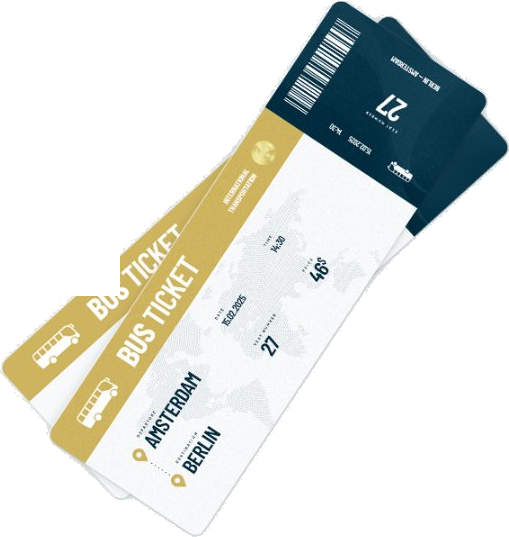
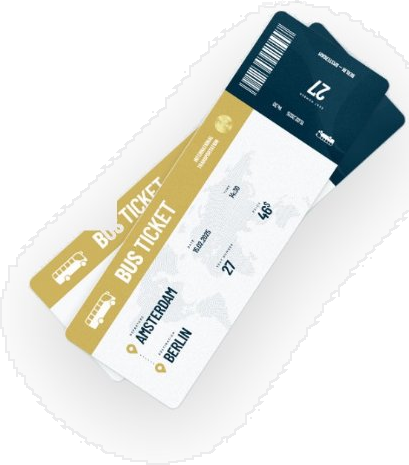
feat: replace with full uncut ticket image and enrich travel section

diff --git a/src/app/page.tsx b/src/app/page.tsx
@@ -357,15 +357,19 @@ export default function HomePage() {
       </section>
 
       {/* ============================================================== */}
-      {/* 2. BUS TRAVEL WITH EASY SECTION (Faithful Reference Match UI)  */}
+      {/* 2. BUS TRAVEL WITH EASY SECTION (Full Uncut Ticket + Details)  */}
       {/* ============================================================== */}
       <section className="py-16 md:py-24 bg-white border-b border-slate-100 overflow-hidden">
         <div className="max-w-7xl mx-auto px-4 sm:px-6 lg:px-8">
-          <div className="grid grid-cols-1 lg:grid-cols-12 gap-10 items-center">
+          <div className="grid grid-cols-1 lg:grid-cols-12 gap-10 lg:gap-8 items-center">
             
-            {/* Left Column: Big Statement Headline & Read More */}
+            {/* Left Column: Big Statement Headline, Highlights & Read More */}
             <div className="lg:col-span-4 space-y-5 text-left">
               <div>
+                <span className="inline-flex items-center gap-1.5 px-3 py-1 rounded-full bg-[#B48C56]/15 border border-[#B48C56]/30 text-[#8C6B3D] text-[10px] font-black uppercase tracking-widest mb-3">
+                  <Sparkles className="w-3 h-3 text-[#B48C56]" />
+                  <span>DIGITAL PASS CONCIERGE</span>
+                </span>
                 <h2 className="tracking-tight leading-[0.95]">
                   <span className="font-extrabold text-4xl sm:text-5xl lg:text-6xl text-[#B48C56] block tracking-tight uppercase">
                     BUS TRAVEL
@@ -375,57 +379,82 @@ export default function HomePage() {
                   </span>
                 </h2>
               </div>
+
               <p className="text-xs sm:text-sm font-extrabold uppercase tracking-widest text-slate-800 leading-relaxed max-w-sm">
                 AFFORDABLE TICKETS FOR FAST AND COMFORTABLE BUS TRIPS ACROSS CITIES
               </p>
+
+              {/* Detailed Value Checkmarks */}
+              <div className="space-y-2 pt-1 border-t border-slate-100">
+                <div className="flex items-center gap-2 text-xs font-semibold text-slate-700">
+                  <CheckCircle2 className="w-4 h-4 text-[#B48C56] shrink-0" />
+                  <span>Instant Scannable Barcode & Wallet Pass</span>
+                </div>
+                <div className="flex items-center gap-2 text-xs font-semibold text-slate-700">
+                  <CheckCircle2 className="w-4 h-4 text-[#B48C56] shrink-0" />
+                  <span>Flexible Date Rescheduling Up to 2h Prior</span>
+                </div>
+                <div className="flex items-center gap-2 text-xs font-semibold text-slate-700">
+                  <CheckCircle2 className="w-4 h-4 text-[#B48C56] shrink-0" />
+                  <span>Guaranteed 3D Seat Allocation (Zero Overbooking)</span>
+                </div>
+              </div>
+
               <div className="pt-2">
                 <Link
                   href="/routes"
-                  className="inline-flex items-center gap-2 text-xs font-bold uppercase tracking-widest text-[#B48C56] hover:text-[#946F38] transition-all group"
+                  className="inline-flex items-center gap-2 text-xs font-bold uppercase tracking-widest text-[#B48C56] hover:text-[#8C6B3D] transition-all group"
                 >
-                  <span className="border-b border-[#B48C56] pb-0.5">READ MORE</span>
+                  <span className="border-b-2 border-[#B48C56] pb-0.5">EXPLORE TICKETS</span>
                   <ArrowRight className="w-3.5 h-3.5 group-hover:translate-x-1 transition-transform" />
                 </Link>
               </div>
             </div>
 
-            {/* Center Column: Authentic Diagonal Overlapping Luxury Boarding Passes (Exact Reference Match) */}
-            <div className="lg:col-span-4 flex items-center justify-center relative py-4 lg:py-0">
-              <div className="relative w-full max-w-[380px] sm:max-w-[420px] lg:max-w-[450px] flex items-center justify-center select-none group">
+            {/* Center Column: Full Uncut Diagonal Overlapping Luxury Boarding Passes */}
+            <div className="lg:col-span-4 flex items-center justify-center relative py-6 lg:py-0">
+              <div className="relative w-full max-w-[340px] sm:max-w-[380px] lg:max-w-[410px] flex items-center justify-center select-none group">
+                {/* Soft ambient aura behind ticket */}
+                <div className="absolute -inset-4 bg-gradient-to-tr from-[#C5A880]/20 via-transparent to-[#071526]/10 rounded-full blur-2xl pointer-events-none group-hover:scale-110 transition-transform duration-700" />
+                
+                {/* Complete Uncut High-Res Luxury Tickets */}
                 <img
                   src="/images/bus-travel-tickets.png"
-                  alt="Novara Luxury Bus Boarding Passes"
-                  className="w-full h-auto object-contain filter drop-shadow-[0_25px_45px_rgba(0,0,0,0.18)] group-hover:scale-105 group-hover:-translate-y-1 transition-all duration-500 cursor-pointer"
+                  alt="Novara Luxury Bus Boarding Passes (Uncut)"
+                  className="w-full h-auto object-contain filter drop-shadow-[0_20px_35px_rgba(0,0,0,0.16)] group-hover:scale-105 group-hover:-translate-y-1.5 transition-all duration-500 cursor-pointer"
                 />
               </div>
             </div>
 
-            {/* Right Column: Transport You Can Trust + View Schedule Button */}
+            {/* Right Column: Transport You Can Trust & Key Features */}
             <div className="lg:col-span-4 space-y-6 text-left">
-              <div>
-                <h4 className="text-xs sm:text-sm font-black text-[#071526] uppercase tracking-widest mb-1.5">
-                  TRANSPORT YOU CAN TRUST
-                </h4>
-                <p className="text-xs text-slate-500 leading-relaxed">
-                  Guaranteed departure times with premium direct intercity corridors. Zero layovers, no stress, and real-time live vehicle status.
+              <div className="bg-slate-50/80 rounded-2xl p-4 border border-slate-100">
+                <div className="flex items-center gap-2 text-xs font-black text-[#071526] uppercase tracking-wider mb-1">
+                  <Bus className="w-4 h-4 text-[#B48C56]" />
+                  <span>Punctual Express Corridors</span>
+                </div>
+                <p className="text-xs text-slate-500 leading-relaxed font-medium">
+                  Guaranteed departure times across national highway corridors with zero transit transfers and real-time GPS tracking.
                 </p>
               </div>
 
-              <div>
-                <h4 className="text-xs sm:text-sm font-black text-[#071526] uppercase tracking-widest mb-1.5">
-                  TRANSPORT YOU CAN TRUST
-                </h4>
-                <p className="text-xs text-slate-500 leading-relaxed">
-                  Ergonomic reclining suites, certified sanitation standards, and guaranteed 3D seat reservation for every single passenger.
+              <div className="bg-slate-50/80 rounded-2xl p-4 border border-slate-100">
+                <div className="flex items-center gap-2 text-xs font-black text-[#071526] uppercase tracking-wider mb-1">
+                  <Armchair className="w-4 h-4 text-[#B48C56]" />
+                  <span>Executive First-Class Suites</span>
+                </div>
+                <p className="text-xs text-slate-500 leading-relaxed font-medium">
+                  Ergonomic winged leather recliners, inductive Qi wireless charging, and high-speed Starlink Wi-Fi for productive travel.
                 </p>
               </div>
 
-              <div className="pt-2">
+              <div className="pt-1">
                 <Link
                   href="/routes"
-                  className="inline-flex items-center justify-center px-8 py-3.5 rounded-xl bg-[#C5A880] hover:bg-[#B48C56] text-white font-extrabold text-xs uppercase tracking-widest shadow-md hover:shadow-lg transition-all transform hover:-translate-y-0.5"
+                  className="w-full sm:w-auto inline-flex items-center justify-center gap-2 px-8 py-3.5 rounded-xl bg-gradient-to-r from-[#D8B788] via-[#B48C56] to-[#8C6B3D] hover:from-[#E2C799] hover:to-[#B48C56] text-slate-950 font-black text-xs uppercase tracking-widest shadow-md hover:shadow-lg transition-all transform hover:-translate-y-0.5 cursor-pointer"
                 >
-                  VIEW SCHEDULE
+                  <span>VIEW TIMETABLES</span>
+                  <ArrowRight className="w-3.5 h-3.5" />
                 </Link>
               </div>
             </div>
